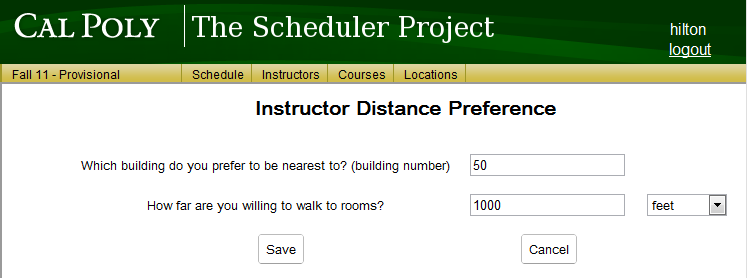
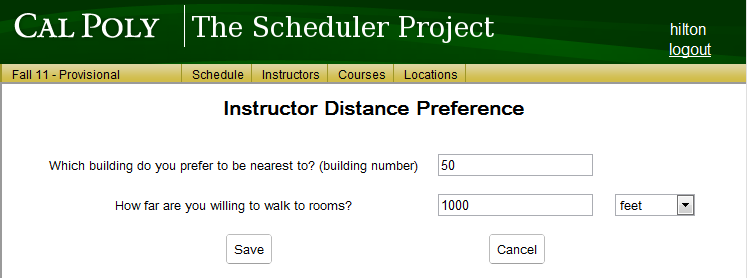
- Centered Instructor Distance Preference screenshot content - Renamed manage instructors file - Updated instructor preferences links for the new manage instructors filename
git-svn-id: svn+ssh://scheduler.csc.calpoly.edu/repo@1046 13b268f7-8392-4c9d-bc7d-1e80a86bc2f9

diff --git a/requirements/mockups2/longform/instructor-preferences.html b/requirements/mockups2/longform/instructor-preferences.html
@@ -12,7 +12,7 @@ Instructor Preferences
 </h3> 
 </a> 
 <p> 
-Once an administrator clicks on the any of the instructor preference buttons from an <a href="manage-instructor.html#edit">edit instructor view</a>, they are greeted with the respective preference view.
+Once an administrator clicks on the any of the instructor preference buttons from an <a href="manage-instructors.html#edit">edit instructor view</a>, they are greeted with the respective preference view.
 </p> 
 <br>
 <hr>
@@ -98,7 +98,7 @@ Once an administrator clicks on the any of the instructor preference buttons fro
 <br>
 <hr width=80% size=3> <center> 
 <font size=-1> 
-<font color=black> Prev: </font><a href="manage-instructor.html">manage instructor</a> 
+<font color=black> Prev: </font><a href="manage-instructors.html">manage instructors</a> 
  | <font color=black> Next: </font><a href="manage-courses.html">manage courses</a> 
  | <font color=black> Up: </font><a href="index.html">index</a> 
  | <font color=black> Top: </font><a href="index.html">index</a></font> 
